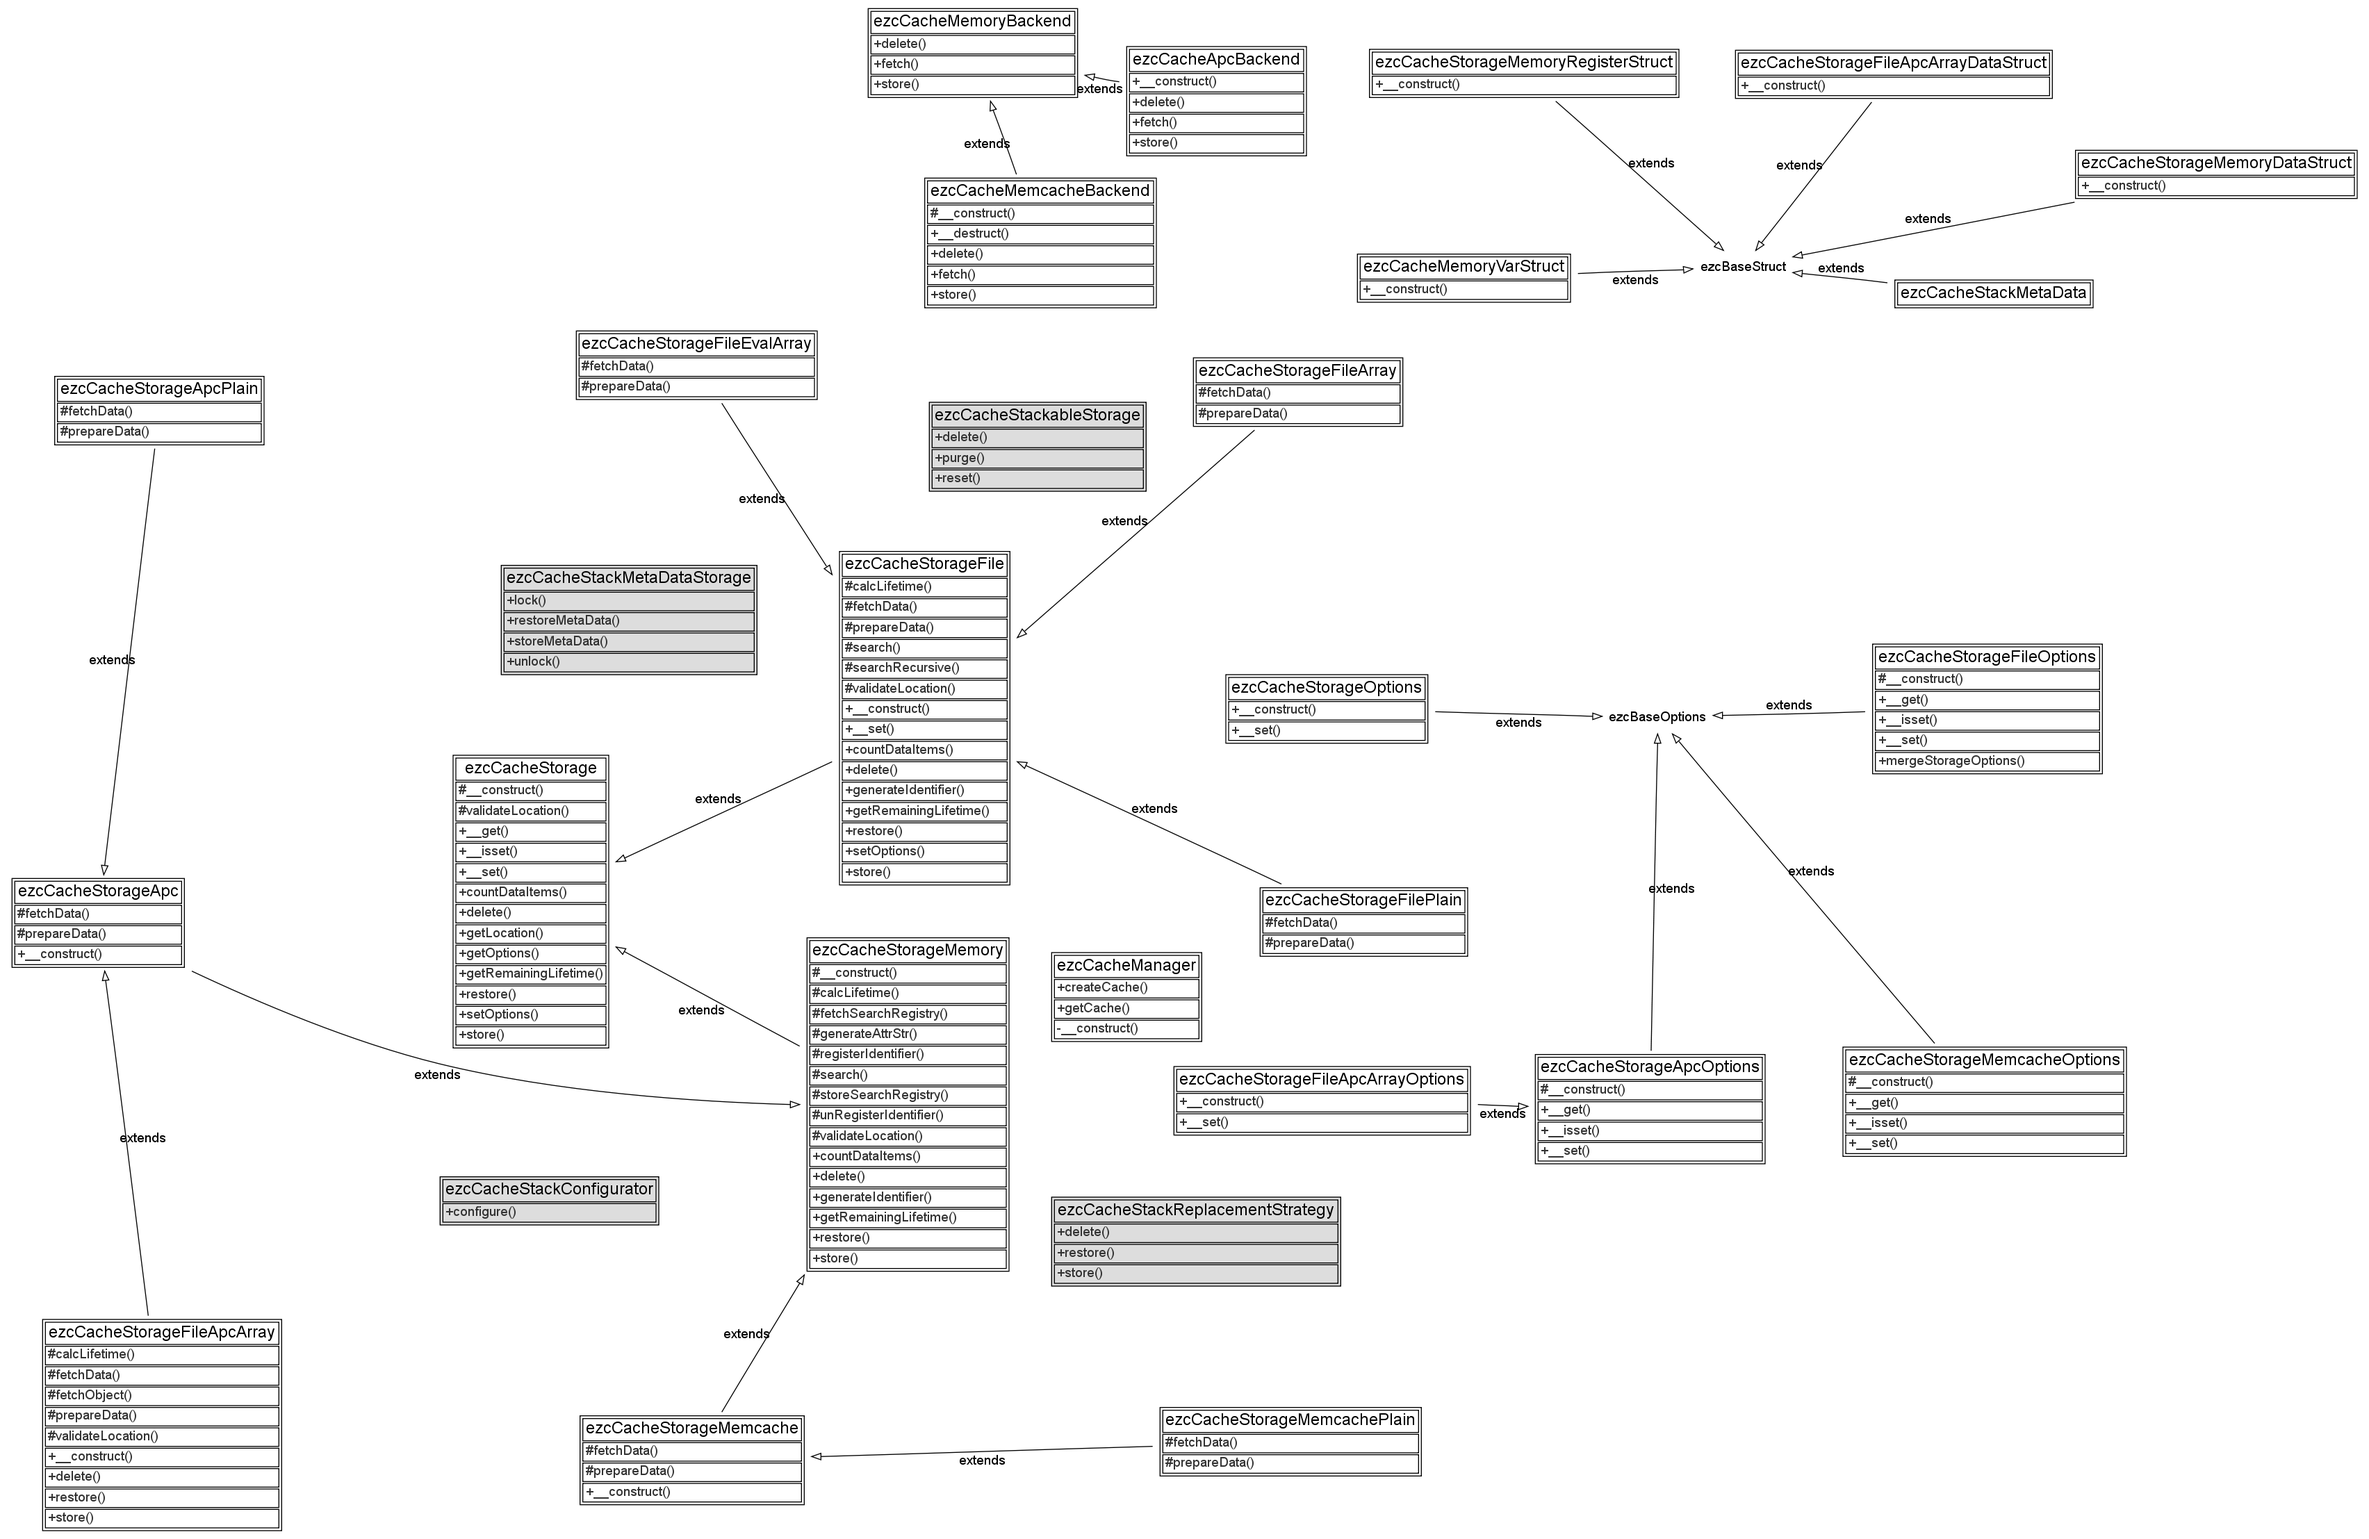
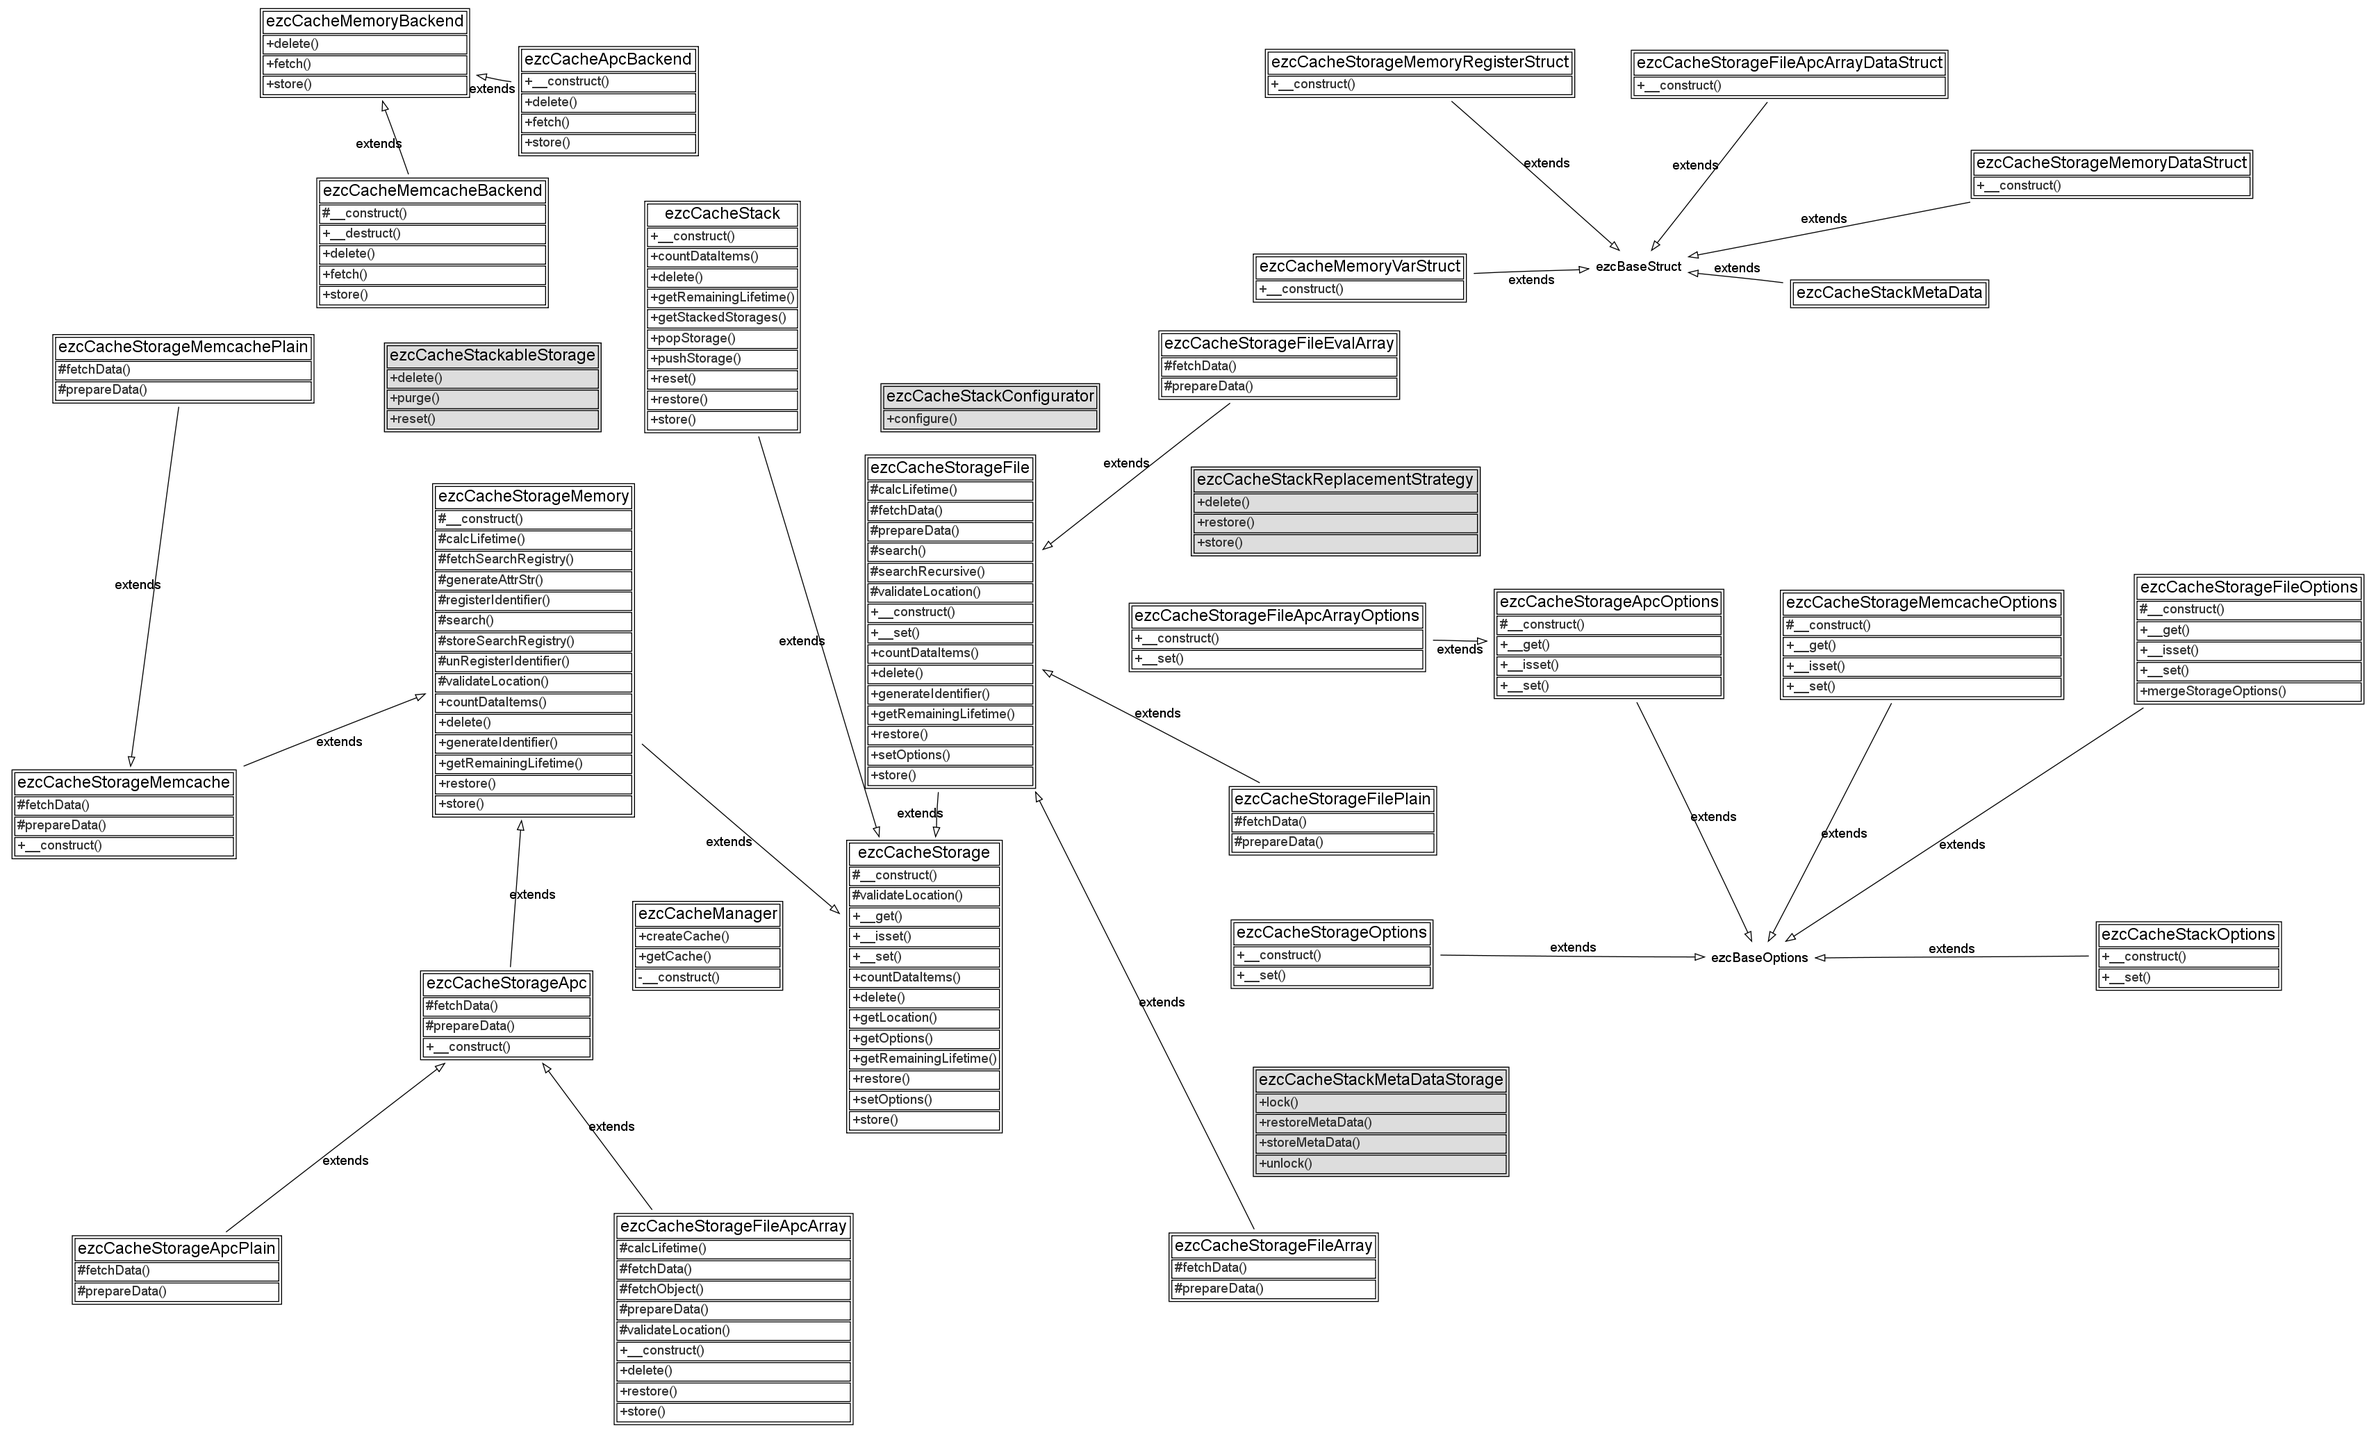
- Added type hint about ezcCacheStackOptions to ezcCacheStack ctor. - Added ezcCacheStackOptions class and tests. # More tests to follow when missing classes are implemented.

diff --git a/src/options/stack.php b/src/options/stack.php
@@ -1,0 +1,130 @@
+<?php
+/**
+ * File containing the ezcCacheStackOptions class.
+ *
+ * @package Cache
+ * @version //autogentag//
+ * @copyright Copyright (C) 2005-2008 eZ systems as. All rights reserved.
+ * @license http://ez.no/licenses/new_bsd New BSD License
+ * @filesource
+ */
+
+/**
+ * Options class for ezcCacheStack instances.
+ * 
+ * This options class is used with {@link ezcCacheStack} instances.
+ *
+ * @property string $configurator
+ *           Name of a class implementing ezcCacheStackConfigurator. This class
+ *           will be used right after construction of the stack, to perform
+ *           initial configuration. After the construction process, this option
+ *           does not have any effect. Null (default) means no configuration.
+ * @property ezcCacheMetaDataStorage $metaStorage
+ *           This storage will be used to store the meta data of the
+ *           replacement strategy used by the stack. If null (default) is
+ *           given, the top most storage will be used.
+ * @property string $replacementStrategy
+ *           The  name of the class given in this property must extend {@link
+ *           ezcCacheReplacementStrategy}. The class will be used as the
+ *           replacement strategy in the stack. ezcCacheLruReplacementStrategy
+ *           is the default.
+ * @property bool $bubbleUpOnReplace
+ *           This option determines if data that is restored from a storage in
+ *           the stack will be bubbled up to higher caches. The default here is
+ *           false, since it might significantly reduce the {@link
+ *           ezcCacheStack::restore()} performance.
+ *
+ * @package Cache
+ * @version //autogen//
+ */
+class ezcCacheStackOptions extends ezcBaseOptions
+{
+    /**
+     * Construct a new options object.
+     * Options are constructed from an option array by default. The constructor
+     * automatically passes the given options to the __set() method to set them 
+     * in the class.
+     * 
+     * @throws ezcBasePropertyNotFoundException
+     *         If trying to access a non existent property.
+     * @throws ezcBaseValueException
+     *         If the value for a property is out of range.
+     * @param array(string=>mixed) $options The initial options to set.
+     */
+    public function __construct( array $options = array() )
+    {
+        $this->properties['configurator']        = null;
+        $this->properties['metaStorage']         = null;
+        $this->properties['replacementStrategy'] = 'ezcCacheLruReplacementStrategy';
+        $this->properties['bubbleUpOnReplace']   = false;
+        parent::__construct( $options );
+    }
+
+    /**
+     * Sets an option.
+     * This method is called when an option is set.
+     * 
+     * @param string $propertyName  The name of the option to set.
+     * @param mixed $propertyValue The option value.
+     * @ignore
+     *
+     * @throws ezcBasePropertyNotFoundException
+     *         if the given property does not exist.
+     * @throws ezcBaseValueException
+     *         if the value to be assigned to a property is invalid.
+     * @throws ezcBasePropertyPermissionException
+     *         if the property to be set is a read-only property.
+     */
+    public function __set( $propertyName, $propertyValue )
+    {
+        switch ( $propertyName )
+        {
+            case 'configurator':
+                if ( $propertyValue !== null && ( !class_exists( $propertyValue )
+                     || !in_array( 'ezcCacheStackConfigurator', class_implements( $propertyValue ) ) ) )
+                {
+                    throw new ezcBaseValueException(
+                        'configurator',
+                        $propertyValue,
+                        'class implementing ezcCacheStackConfigurator or null'
+                    );
+                }
+                break;
+            case 'metaStorage':
+                if ( !$propertyValue !== null && !( $propertyValue instanceof ezcCacheMetaDataStorage ) )
+                {
+                    throw new ezcBaseValueException(
+                        'configurator',
+                        $propertyValue,
+                        'ezcCacheMetaDataStorage or null'
+                    );
+                }
+                break;
+            case 'replacementStrategy':
+                if ( !class_exists( $propertyValue ) || !in_array( 'ezcCacheStackReplacementStrategy', class_implements( $propertyValue ) ) )
+                {
+                    throw new ezcBaseValueException(
+                        'configurator',
+                        $propertyValue,
+                        'class implementing ezcCacheStackReplacementStrategy'
+                    );
+                }
+                break;
+            case 'bubbleUpOnReplace':
+                if ( !is_bool( $propertyValue ) )
+                {
+                    throw new ezcBaseValueException(
+                        'bubbleUpOnReplace',
+                        $propertyValue,
+                        'bool'
+                    );
+                }
+                break;
+            default:
+                throw new ezcBasePropertyNotFoundException( $propertyName );
+        }
+        $this->properties[$propertyName] = $propertyValue;
+    }
+}
+
+?>

diff --git a/tests/stack_options_test.php b/tests/stack_options_test.php
@@ -1,0 +1,44 @@
+<?php
+/**
+ * ezcCacheStackOptionsTest 
+ * 
+ * @package Cache
+ * @subpackage Tests
+ * @version //autogen//
+ * @copyright Copyright (C) 2005-2008 eZ systems as. All rights reserved.
+ * @license http://ez.no/licenses/new_bsd New BSD License
+ */
+
+/**
+ * Test suite for the ezcCacheStackOptions class.
+ * 
+ * @package Cache
+ * @subpackage Tests
+ */
+class ezcCacheStackOptionsTest extends ezcTestCase
+{
+    public static function suite()
+	{
+		return new PHPUnit_Framework_TestSuite( __CLASS__ );
+	}
+
+    public function testCtorDefaultSuccess()
+    {
+        $opts = new ezcCacheStackOptions();
+        $this->assertAttributeEquals(
+            array(
+                'configurator'        => null,
+                'metaStorage'         => null,
+                'replacementStrategy' => 'ezcCacheLruReplacementStrategy',
+                'bubbleUpOnReplace'   => false,
+            ),
+            'properties',
+            $opts,
+            'Default options incorrect'
+        );
+    }
+}
+
+
+
+?>

diff --git a/src/cache_autoload.php b/src/cache_autoload.php
@@ -28,9 +28,11 @@ return array(
     'ezcCacheManager'                       => 'Cache/manager.php',
     'ezcCacheMemcacheBackend'               => 'Cache/backends/memcache/memcache_backend.php',
     'ezcCacheMemoryVarStruct'               => 'Cache/structs/memory_var.php',
+    'ezcCacheStack'                         => 'Cache/stack.php',
     'ezcCacheStackConfigurator'             => 'Cache/interfaces/stack_configurator.php',
     'ezcCacheStackMetaData'                 => 'Cache/structs/meta_data.php',
     'ezcCacheStackMetaDataStorage'          => 'Cache/interfaces/meta_data_storage.php',
+    'ezcCacheStackOptions'                  => 'Cache/options/stack.php',
     'ezcCacheStackReplacementStrategy'      => 'Cache/interfaces/replacement_strategy.php',
     'ezcCacheStackableStorage'              => 'Cache/interfaces/stackable_storage.php',
     'ezcCacheStorageApcPlain'               => 'Cache/storage/apc/plain.php',

diff --git a/tests/suite.php b/tests/suite.php
@@ -23,6 +23,10 @@ require_once 'storage_file_test.php';
  */
 require_once 'storage_options_test.php';
 /**
+ * Require stack options test suite. 
+ */
+require_once 'stack_options_test.php';
+/**
  * Require file storage options test suite. 
  */
 require_once 'storage_file_options_test.php';
@@ -73,6 +77,7 @@ class ezcCacheSuite extends PHPUnit_Framework_TestSuite
         $this->addTest( ezcCacheStorageMemcachePlainTest::suite() );
         $this->addTest( ezcCacheStorageOptionsTest::suite() );
         $this->addTest( ezcCacheStorageFileOptionsTest::suite() );
+        $this->addTest( ezcCacheStackOptionsTest::suite() );
         $this->addTest( ezcCacheManagerTest::suite() );
     }
 

diff --git a/src/stack.php b/src/stack.php
@@ -46,7 +46,7 @@ class ezcCacheStack extends ezcCacheStorage
      * @param string $location 
      * @param ezcCacheStackOptions $options 
      */
-    public function __construct( $location, $options );
+    public function __construct( $location, ezcCacheStackOptions $options );
 
     /**
      * Stores data in the cache stack.
